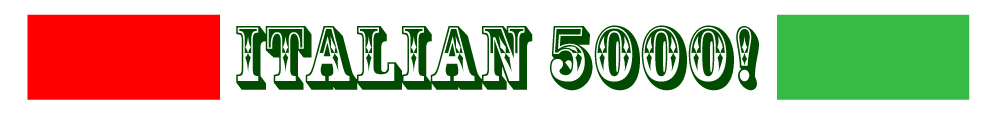
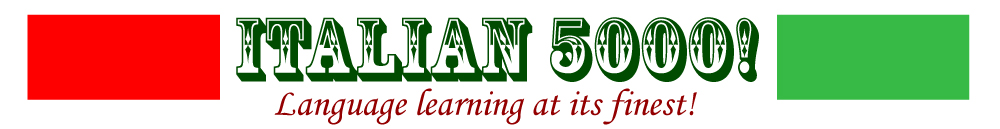
image added

Changed region(s): [[0.0, 0.1316, 0.992, 0.9737], [0.775, 0.1053, 0.992, 0.1316], [0.0, 0.1053, 0.217, 0.1316]]

diff --git a/src/components/header-bar.js b/src/components/header-bar.js
@@ -2,6 +2,7 @@ import React from 'react';
 import {connect} from 'react-redux';
 import {clearAuth} from '../actions/auth';
 import {clearAuthToken} from '../local-storage';
+import italian5000 from '../images/header_stuff_01.jpg';
 
 export class HeaderBar extends React.Component {
     logOut() {
@@ -23,7 +24,8 @@ export class HeaderBar extends React.Component {
         }
         return (
             <div className="header-bar">
-                <h1>Italian 5000!</h1>
+            <img src={italian5000} alt='italian5000'/> 
+                 
                 {logOutButton}
             </div>
         );

diff --git a/src/components/game.js b/src/components/game.js
@@ -87,6 +87,8 @@ export class Game extends React.Component {
   onNextClick(){
 
     //do we need to pass in the current word to find out whats next?
+    // theWord;
+
     this.props.dispatch(fetchCurrentWord(this.props.currentUser._id));
     //this.props.dispatch(changeCurrentWord());
 
